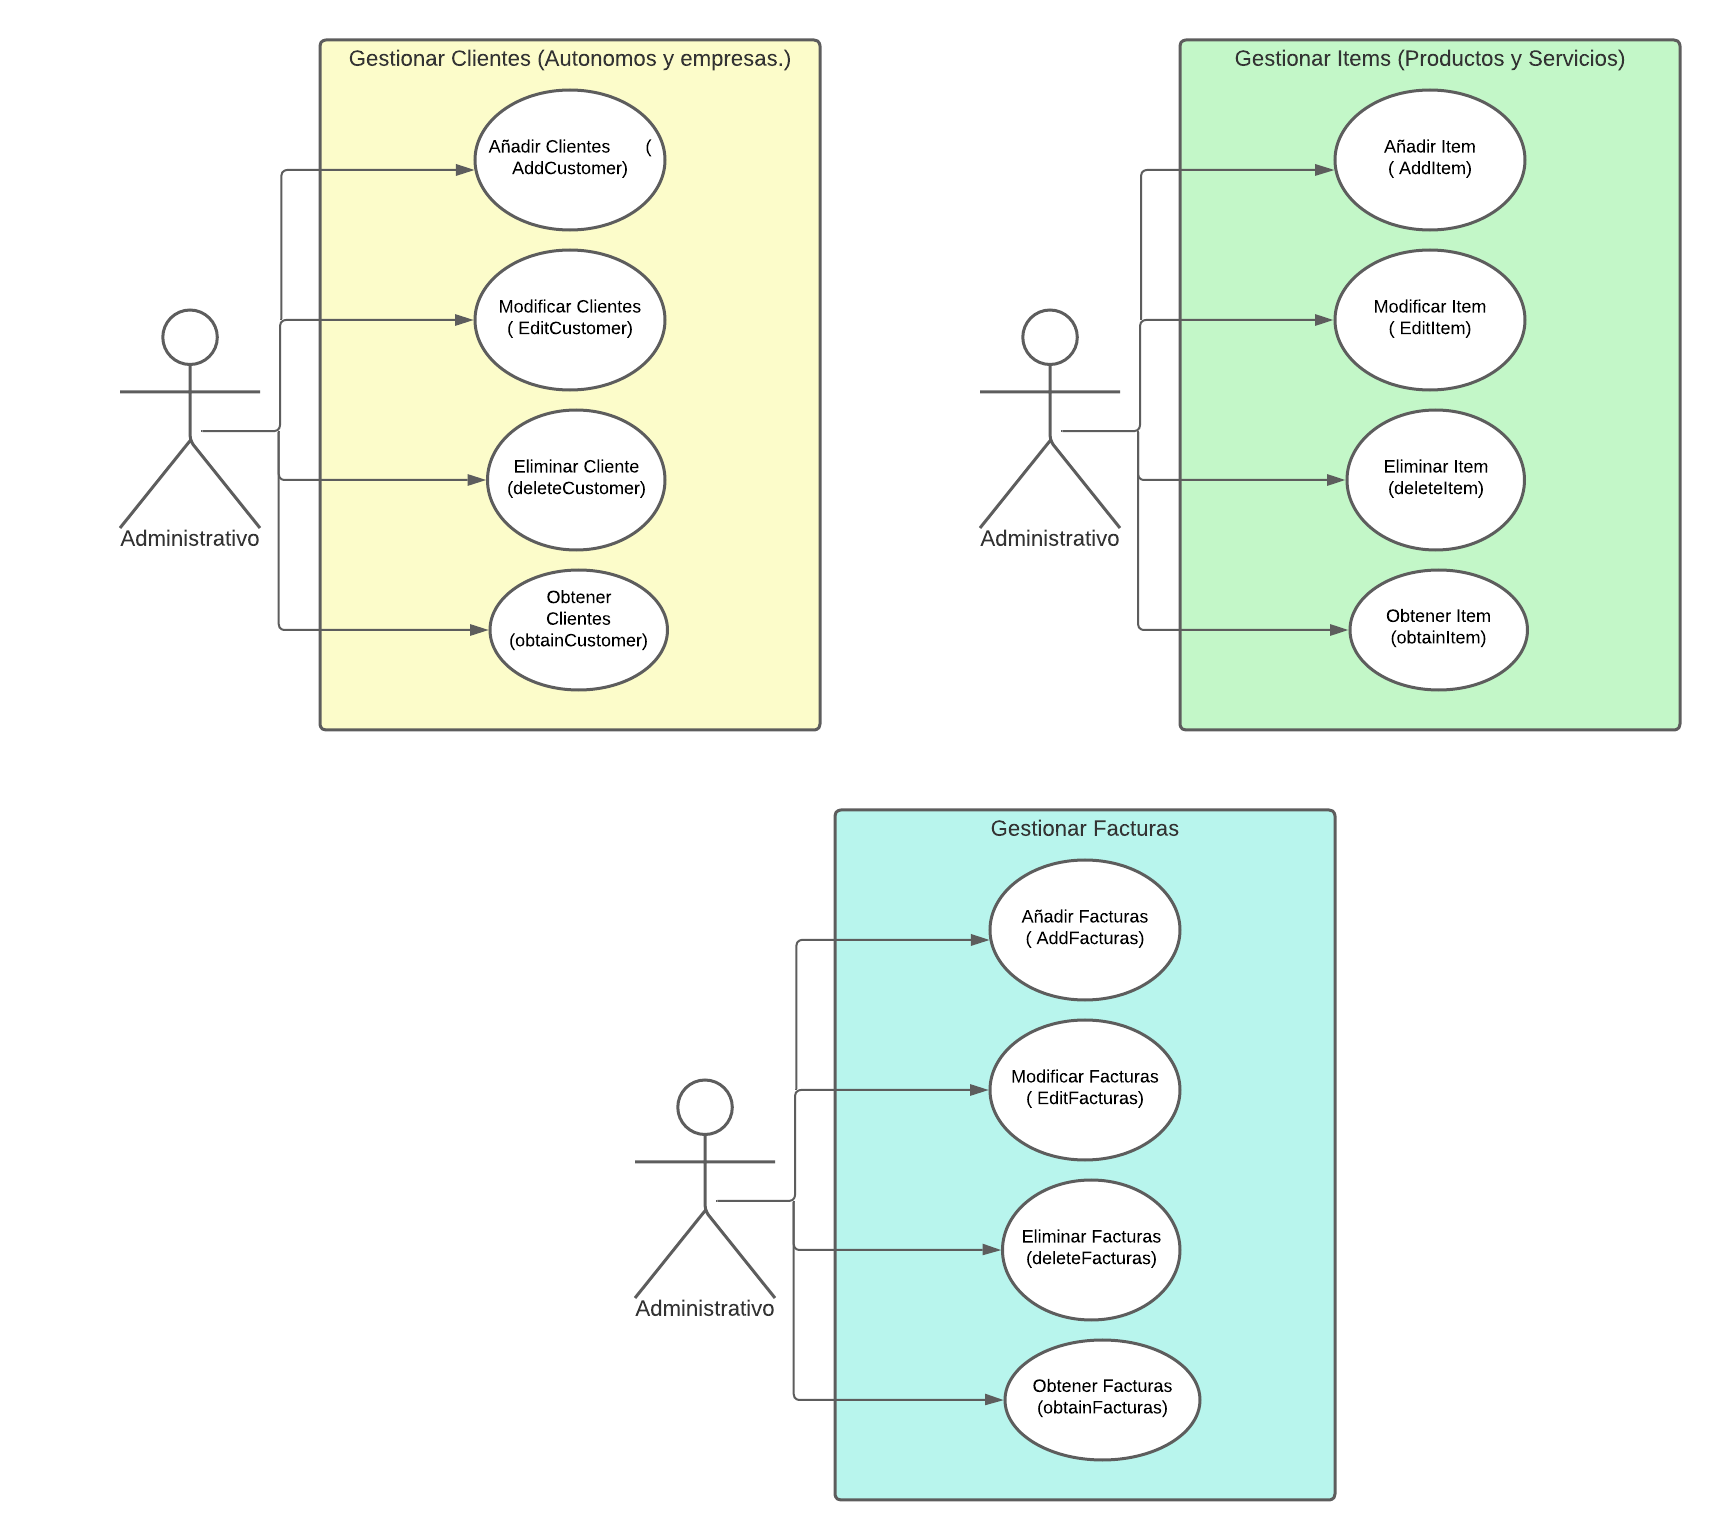
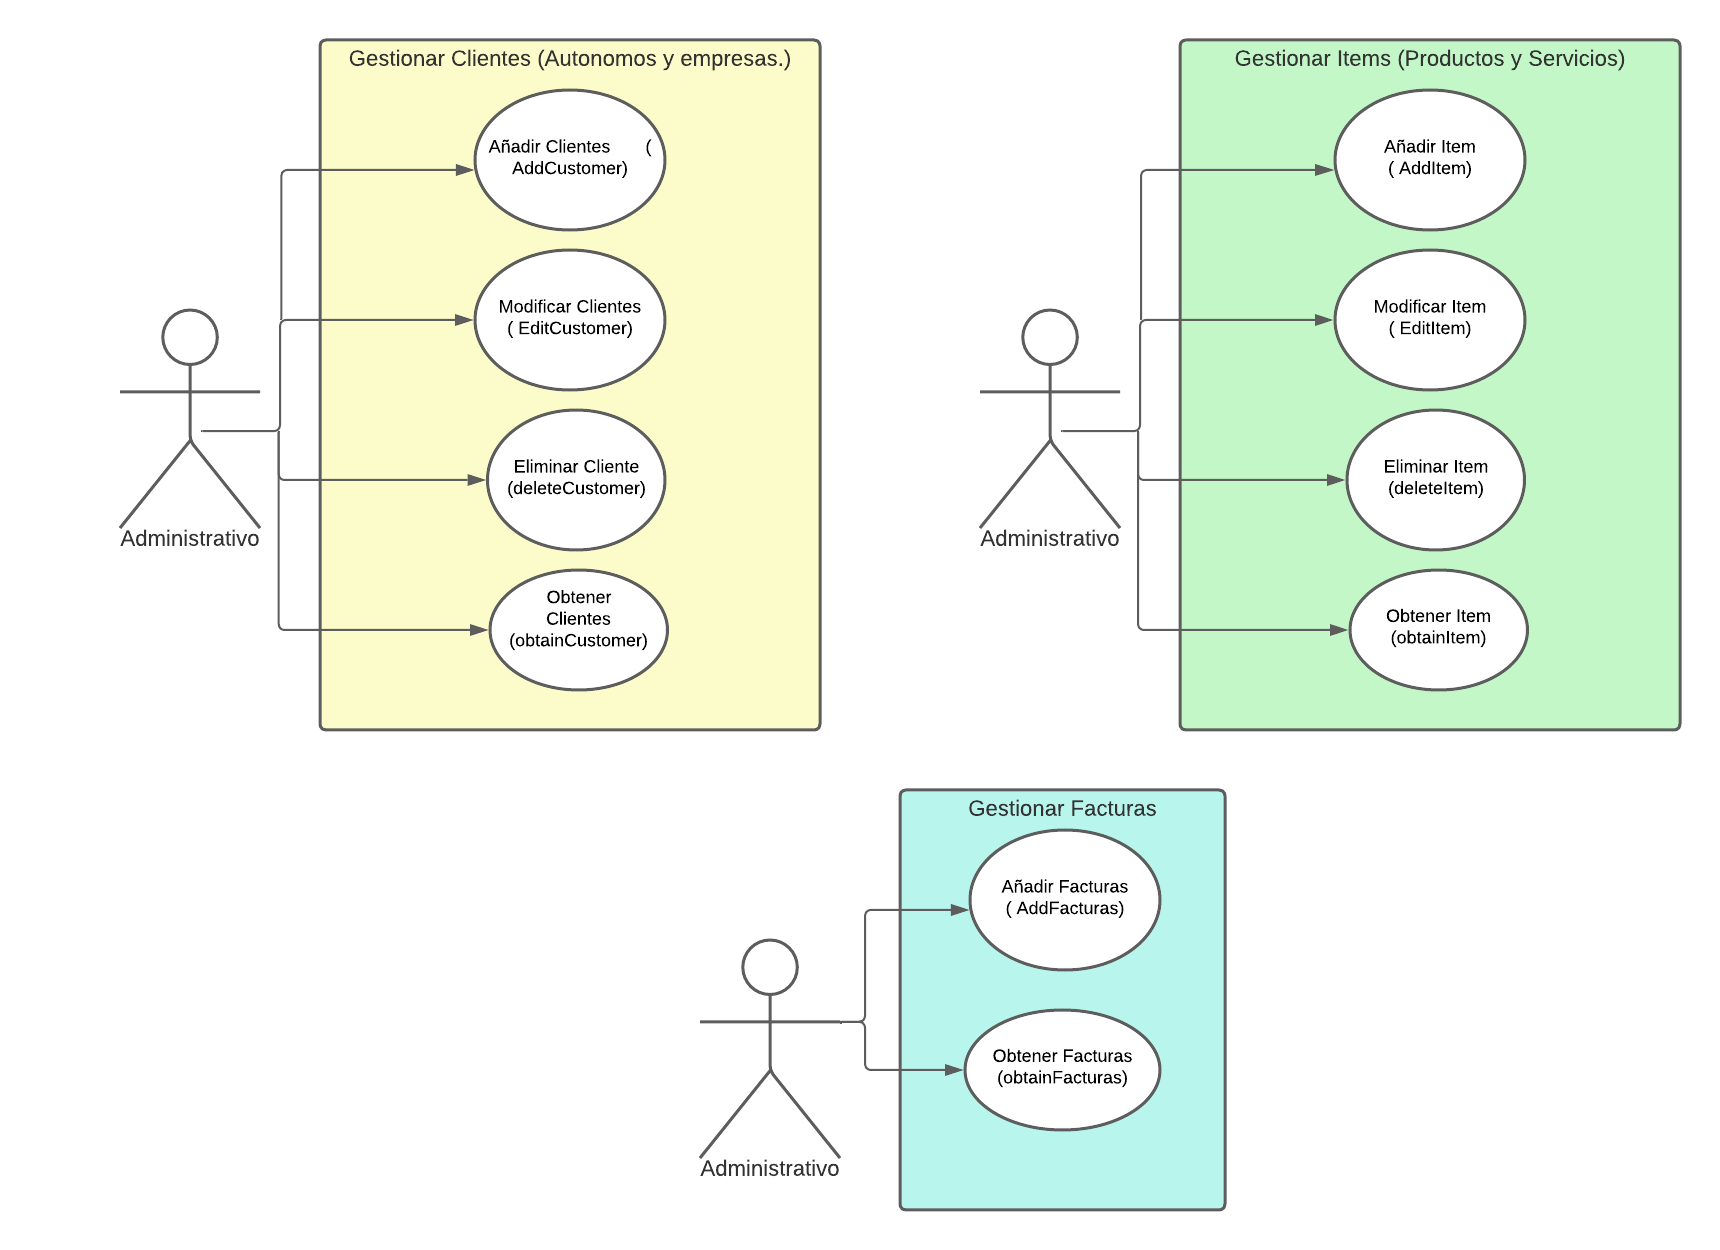
finalizar main ya que me acorde de que el profesor dijo que facturas no se pueden modificar ni eliminar por lo que puse datos de mas

diff --git a/src/com/Juangarcia/electricidadchispitas/Presentacion/Main.java b/src/com/Juangarcia/electricidadchispitas/Presentacion/Main.java
@@ -11,9 +11,7 @@ import com.Juangarcia.electricidadchispitas.Domain.UserCases.Customer.DeleteCust
 import com.Juangarcia.electricidadchispitas.Domain.UserCases.Customer.GetCustomersUseCase;
 import com.Juangarcia.electricidadchispitas.Domain.UserCases.Customer.UpdateCustomerUseCase;
 import com.Juangarcia.electricidadchispitas.Domain.UserCases.Factura.AddFacturaUseCase;
-import com.Juangarcia.electricidadchispitas.Domain.UserCases.Factura.DeleteFacturaUseCase;
 import com.Juangarcia.electricidadchispitas.Domain.UserCases.Factura.GetFacturaUseCase;
-import com.Juangarcia.electricidadchispitas.Domain.UserCases.Factura.UpdateFacturaUseCase;
 import com.Juangarcia.electricidadchispitas.Domain.UserCases.Item.AddItemUseCase;
 import com.Juangarcia.electricidadchispitas.Domain.UserCases.Item.DeleteItemUseCase;
 import com.Juangarcia.electricidadchispitas.Domain.UserCases.Item.GetItemUseCase;
@@ -246,22 +244,7 @@ public class Main {
 
         System.out.println("----- Eliminando Facturas ------");
 
-        DeleteFacturaUseCase deleteFacturaUseCase = new DeleteFacturaUseCase(facturaDataStore);
-        deleteFacturaUseCase.execute(factura1);
-        deleteFacturaUseCase.execute(factura2);
-        List<Factura> Factura2 = getFacturaUseCase.execute();
-        for (int i = 0; i < Factura2.size(); i++) {
-              //  printFacturas(Factura2.get(i));
-        }
 
-        System.out.println("----- Modificando Facturas------");
-
-        UpdateFacturaUseCase updateFacturaUseCase = new UpdateFacturaUseCase(facturaDataStore);
-        updateFacturaUseCase.execute(factura1);
-        List<Factura> Factura3 = getFacturaUseCase.execute();
-        for (int i = 0; i < Factura3.size(); i++) {
-                //printFactura(Factura3.get(i));
-        }
 
 
         ImpresionFactura.print(factura1);
